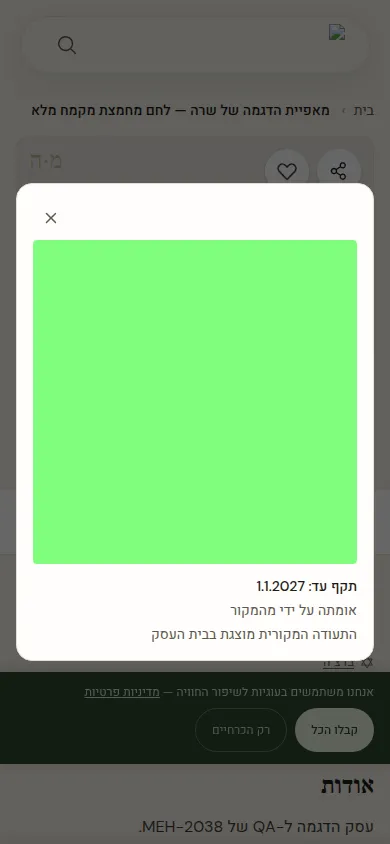
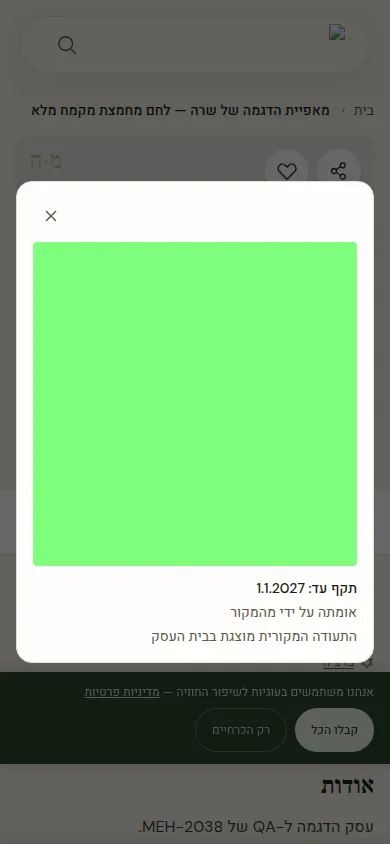
fix(rtl): adversarial-review fixes — stale rule citation + knife-edge margin
Two findings from the local adversarial review, both self-inflicted by the
first commit:

1. .claude/rules/rtl.md cited LoginPromptModal.jsx:107 for the text-center
   case. That was correct when I read it and stale by the time I wrote it —
   the explanatory comment I added in the same commit pushed the <h2> down to
   :113. A rules file is trusted over direct observation by every session that
   loads it, so a citation that silently drifts is worse there than anywhere
   else. Re-derived all four citations in the new rule against the working
   tree; the other three (OnboardingTip.jsx:50,55 · Lightbox.jsx:156 ·
   ShareButton w-11 h-11 at :61) are accurate.

2. CertModal's mt-10 was EXACT clearance, not clearance with slack: measured
   btn.bottom=240 and img.top=240, touching at 0px. It passes today and
   overlaps on any sub-pixel rounding or future type change. mt-11 buys 4px;
   re-measured at btn.bottom=238 / img.top=242.

Harness re-run against the rebuilt app: 21 assertions, 0 failed.

Refs MEH-2038

Builder-Model: claude-opus-5
Claude-Session: https://claude.ai/code/session_01Lo36MWQC2w6vWcv9eciq7Y

diff --git a/frontend/components/KashrutBadgeStrip.jsx b/frontend/components/KashrutBadgeStrip.jsx
@@ -76,18 +76,20 @@ function CertModal({ src, expiryText, onClose, t }) {
         {/* raw img: src is our own /kashrut-cert proxy route, not a Cloudinary
             URL — lib/cloudinary.js has nothing to transform, and the host is
             not in next.config.js images.remotePatterns (frozen this ticket). */}
-        {/* MEH-2038: the top margin is STILL REQUIRED and had to grow 6→10. The
+        {/* MEH-2038: the top margin is STILL REQUIRED and had to grow 6→11. The
             image is w-full, so moving the close button to end-3 does not clear
             it horizontally — only vertical separation works. Button: top-3
             (12px) + h-11 (44px) = 56px from the card top; the p-4 content box
-            starts at 16px, so the image needs mt-10 (40px) to clear it. At the
-            old w-8/mt-6 the numbers were 44px vs 40px and the image already
-            tucked 4px under the button. */}
+            starts at 16px, so 40px (mt-10) is the EXACT clearance and mt-11
+            (44px) buys a 4px gap. Exact was measured working, but a 0px
+            knife-edge overlaps on any sub-pixel rounding or future type change,
+            so the margin carries the slack. At the old w-8/mt-6 the numbers
+            were 44px vs 40px and the image already tucked 4px under. */}
         <img
           src={src}
           alt={t("cert.image_alt")}
           data-testid="kashrut-cert-image"
-          className="w-full max-h-[70vh] object-contain rounded mt-10"
+          className="w-full max-h-[70vh] object-contain rounded mt-11"
         />
         <div className="mt-3 space-y-1 text-sm">
           {expiryText && <p className="font-medium text-text">{expiryText}</p>}

diff --git a/.claude/rules/rtl.md b/.claude/rules/rtl.md
@@ -80,7 +80,7 @@ overlap is `inset + button-width − card-padding`. Pad past that, not by feel.
 
 **On a `text-center` panel, reserve symmetrically (`px-*`).** A one-sided `pe-*`
 shifts the heading off its centre while the body copy below stays centred —
-trading a collision for a misalignment. `LoginPromptModal.jsx:107` is the worked
+trading a collision for a misalignment. `LoginPromptModal.jsx:113` is the worked
 case.
 
 **Tap target ≥ 44px** on any such button (`w-11 h-11`) — `ShareButton.jsx` is
